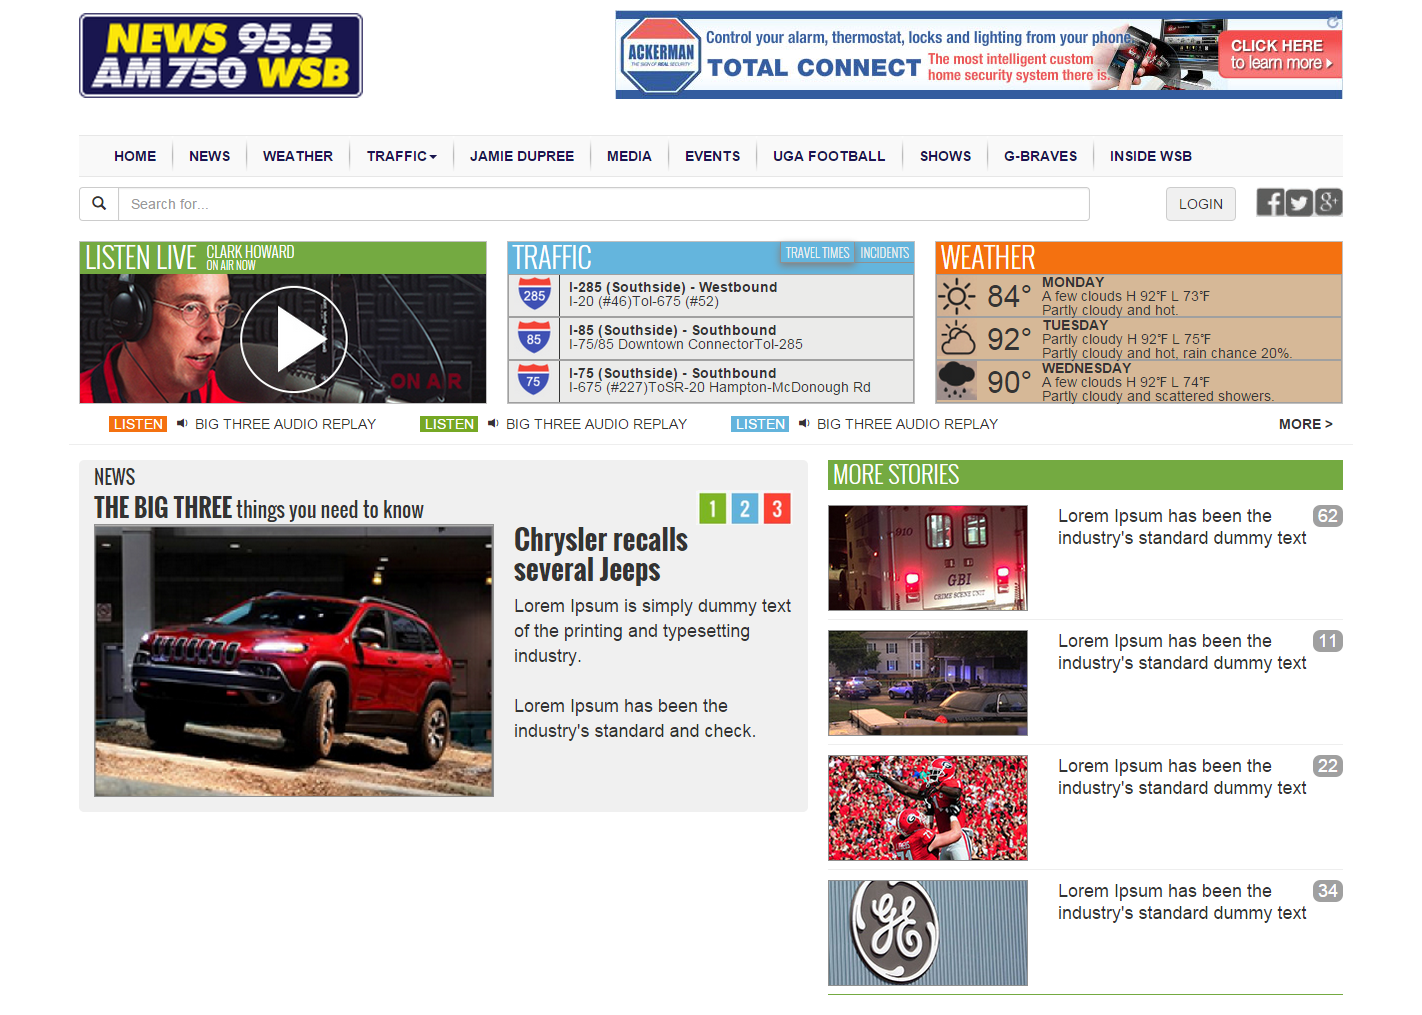
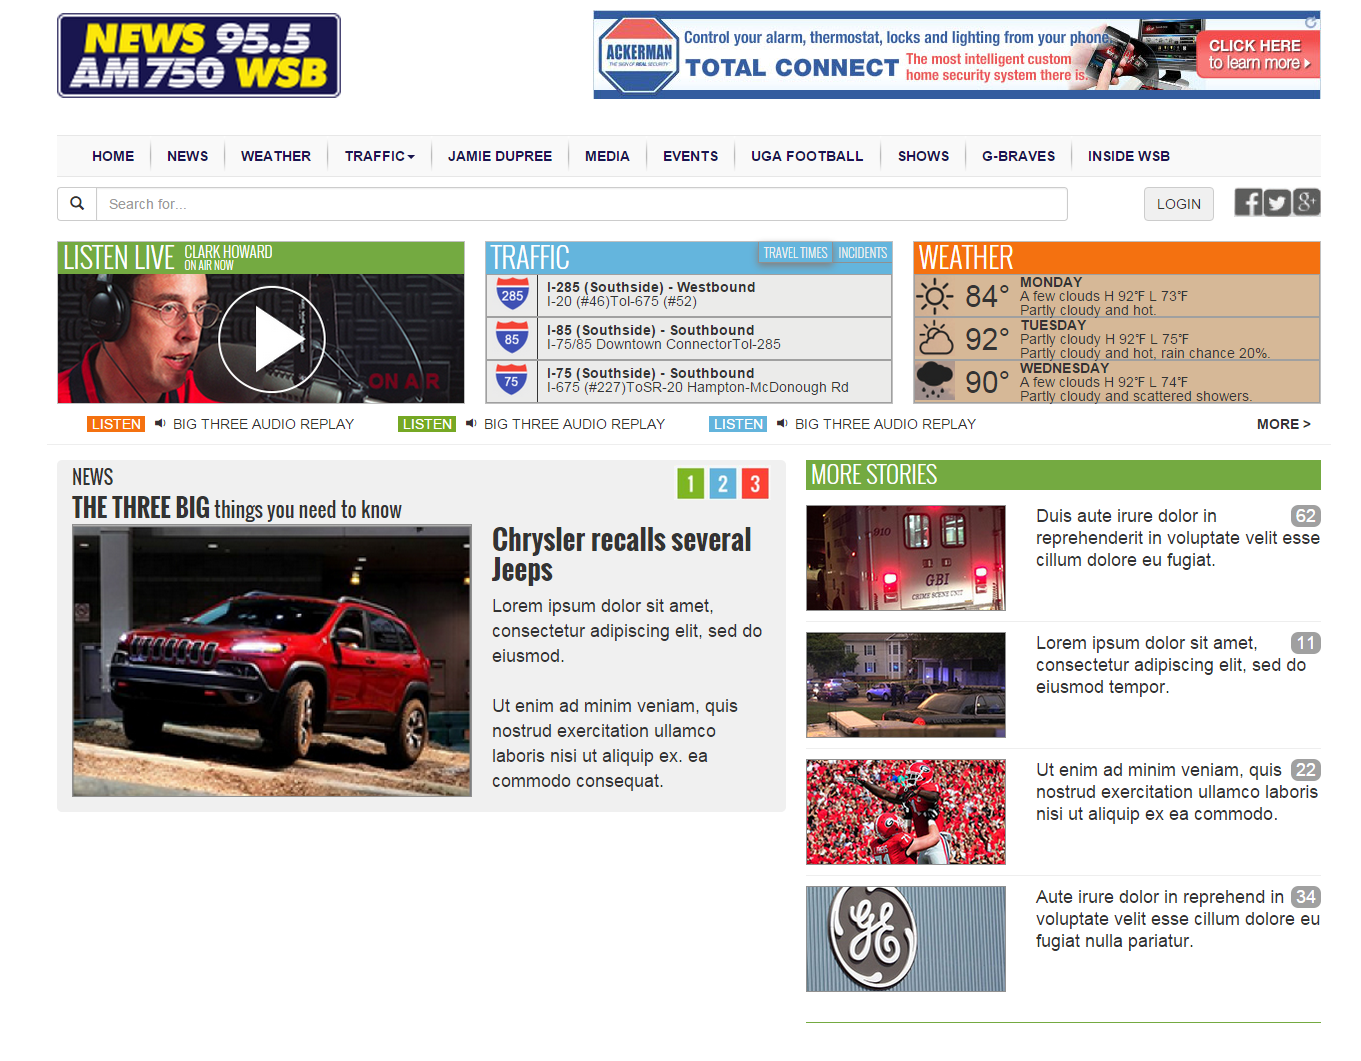
Update to 1284px wide comp and readme file.

diff --git a/README.md b/README.md
@@ -10,7 +10,7 @@ This assignment requires knowledge in the following areas:
 - Less preprocessor
 	- You will be modifying some global variables and recompiling the bootstrap CSS files.
 - Grunt or other task-based command line build tool of your choice 
-	- You will be removing all JavaScript components not being used and recompiling the Bootstrap JS files.
+	- You will be removing all JavaScript components, not being used, and recompiling the Bootstrap JS files.
 - AngularJS
 - Google fonts
 
